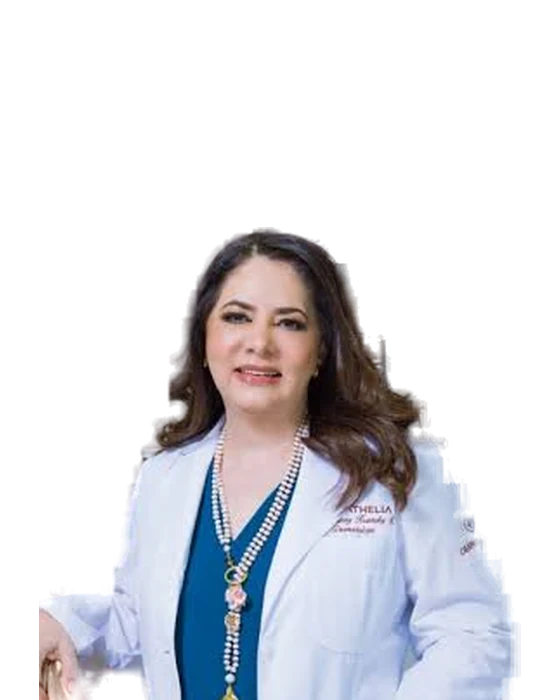
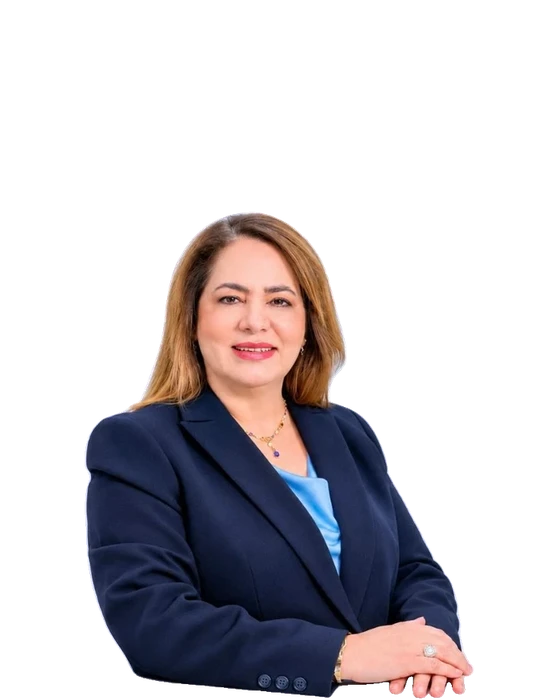
Directorio de colegios rediseñado y nueva fotografía de la Dra. Kramsky
- Directorio: banda con la red en cifras (colegios, asociaciones y presidencias en
  funciones), muro de logotipos en tarjetas grandes con siglas y presidencia, contador
  de resultados, búsqueda también por presidente y llamado a afiliar un colegio.
- La API pública del directorio incluye la presidencia vigente de cada organización.
- Dra. Fanny Kramsky Soto: retrato, recorte al rostro y foto sin fondo (rembg,
  u2net_human_seg) a partir de la fotografía nueva; original en docs.

diff --git a/app/pages/directorio/index.vue b/app/pages/directorio/index.vue
@@ -1,13 +1,46 @@
+<!-- Directorio público de colegios y asociaciones afiliados: cifras de la red, muro de
+     logotipos con su presidencia y búsqueda. Los logotipos estáticos están en shared/colegios.ts. -->
 <template>
   <div>
     <SitioEncabezado antetitulo="Directorio" titulo="Colegios agremiados" descripcion="Colegios y asociaciones de la salud de Chiapas que forman parte de la Federación. Consulte su mesa directiva, sitio web y redes sociales.">
       <SitioNavDirectorio />
     </SitioEncabezado>
 
+    <!-- La red en cifras -->
+    <section v-if="organizaciones?.length" class="relative isolate overflow-hidden bg-gradient-to-br from-marca-800 via-marca-700 to-marca-600 text-white">
+      <MarcaRed class="girar-lento pointer-events-none absolute -right-32 -top-32 -z-10 size-[30rem] text-white/[0.08]" />
+      <UContainer class="grid gap-8 py-12 lg:grid-cols-[1.1fr_1fr] lg:items-center">
+        <div v-revelar>
+          <p class="font-display text-sm font-semibold uppercase tracking-[0.2em] text-acento-300">
+            Una red en todo Chiapas
+          </p>
+          <p class="mt-3 font-display text-3xl font-bold leading-tight sm:text-4xl">
+            <SitioContador :valor="String(organizaciones.length)" /> colegios y asociaciones de la salud, unidos en una sola Federación
+          </p>
+          <p class="mt-3 max-w-xl text-white/80">
+            Medicina, odontología, química, psicología y trabajo social: especialistas de todas las disciplinas que trabajan juntos por la salud de Chiapas.
+          </p>
+        </div>
+        <dl class="grid grid-cols-3 gap-3">
+          <div v-for="(c, i) in cifras" :key="c.etiqueta" v-revelar.escala="i * 90" class="rounded-2xl bg-white/10 p-4 text-center ring-1 ring-white/20 backdrop-blur-md sm:p-6">
+            <dd class="font-display text-3xl font-bold sm:text-5xl">
+              <SitioContador :valor="String(c.valor)" />
+            </dd>
+            <dt class="mt-1 text-xs leading-snug text-white/80 sm:text-sm">
+              {{ c.etiqueta }}
+            </dt>
+          </div>
+        </dl>
+      </UContainer>
+    </section>
+
     <UContainer class="py-12 sm:py-16">
       <div v-if="organizaciones?.length" class="mb-8 flex flex-wrap items-center gap-3">
-        <UInput v-model="busqueda" icon="i-lucide-search" placeholder="Buscar por nombre o municipio" class="w-full sm:max-w-sm" />
+        <UInput v-model="busqueda" icon="i-lucide-search" placeholder="Buscar colegio, siglas o presidente" class="w-full sm:max-w-md" />
         <UTabs v-model="tipo" :items="pestanas" :content="false" size="sm" />
+        <p class="text-sm text-muted sm:ml-auto" aria-live="polite">
+          {{ filtradas.length }} de {{ organizaciones.length }}
+        </p>
       </div>
 
       <EstadoVacio
@@ -17,32 +50,51 @@
         :descripcion="organizaciones?.length ? undefined : 'La Federación está registrando a sus organizaciones afiliadas.'"
       />
 
-      <div v-else class="grid gap-4 sm:grid-cols-2 lg:grid-cols-3">
-        <NuxtLink
-          v-for="o in filtradas"
-          :key="o.slug"
-          v-revelar
-          :to="`/directorio/${o.slug}`"
-          class="group flex flex-col rounded-2xl bg-default p-6 shadow-tarjeta ring-1 ring-default transition-[box-shadow,transform] hover:-translate-y-0.5 hover:shadow-flotante"
-        >
-          <div class="flex items-center gap-4">
-            <LogoOrganizacion :logo-id="o.logoId" :src="logoColegio(o.slug)" :nombre="o.siglas || o.nombre" tamano="lg" />
-            <div class="min-w-0">
-              <p class="text-xs font-medium uppercase tracking-wide text-dimmed">
-                {{ NOMBRE_TIPO[o.tipo] }}
+      <ul v-else class="grid grid-cols-2 gap-3 sm:gap-5 md:grid-cols-3 xl:grid-cols-4">
+        <li v-for="(o, i) in filtradas" :key="o.slug" v-revelar="(i % 4) * 60">
+          <NuxtLink
+            :to="`/directorio/${o.slug}`"
+            class="group flex h-full flex-col overflow-hidden rounded-2xl bg-default shadow-tarjeta ring-1 ring-default transition-[box-shadow,transform] duration-300 hover:-translate-y-1 hover:shadow-flotante hover:ring-marca-200 dark:hover:ring-marca-800"
+          >
+            <!-- Logotipo protagonista -->
+            <div class="relative flex aspect-[4/3] items-center justify-center bg-white p-4 sm:p-6">
+              <span class="absolute inset-x-0 bottom-0 h-1 origin-left scale-x-0 bg-gradient-to-r from-marca-600 to-acento-500 transition-transform duration-500 group-hover:scale-x-100" aria-hidden="true" />
+              <img
+                v-if="logoDe(o)"
+                :src="logoDe(o)"
+                :alt="`Logotipo del ${o.nombre}`"
+                class="max-h-full max-w-full object-contain transition-transform duration-500 group-hover:scale-105"
+                loading="lazy"
+              >
+              <span v-else class="flex size-20 items-center justify-center rounded-full bg-gradient-to-br from-marca-50 to-acento-50 ring-1 ring-marca-100 sm:size-24" aria-hidden="true">
+                <UIcon name="i-lucide-stethoscope" class="size-9 text-marca-600 sm:size-10" />
+              </span>
+            </div>
+            <div class="flex flex-1 flex-col border-t border-default p-3 sm:p-5">
+              <p class="flex flex-wrap items-center gap-1.5 text-[11px] font-semibold uppercase tracking-wide text-dimmed">
+                <span>{{ NOMBRE_TIPO[o.tipo] }}</span>
+                <span v-if="o.siglas" class="rounded-full bg-marca-50 px-2 py-0.5 text-marca-700 dark:bg-marca-950 dark:text-marca-200">{{ o.siglas }}</span>
               </p>
-              <p v-if="o.municipio" class="text-sm text-muted">
-                {{ o.municipio }}
+              <p class="mt-1.5 line-clamp-3 font-display text-sm font-semibold leading-snug text-highlighted group-hover:text-primary sm:text-base">
+                {{ o.nombre }}
+              </p>
+              <p v-if="o.presidencia" class="mt-auto flex items-start gap-1.5 pt-3 text-xs text-muted sm:text-sm">
+                <UIcon name="i-lucide-user-round" class="mt-0.5 size-3.5 shrink-0 text-acento-600" />
+                <span><span class="sr-only">Presidencia: </span>{{ o.presidencia }}</span>
               </p>
             </div>
-          </div>
-          <p class="mt-4 font-display text-lg font-semibold leading-snug text-highlighted group-hover:text-primary">
-            {{ o.nombre }}
-          </p>
-          <p v-if="o.descripcion" class="mt-2 line-clamp-3 text-sm text-muted">
-            {{ o.descripcion }}
-          </p>
-        </NuxtLink>
+          </NuxtLink>
+        </li>
+      </ul>
+
+      <div v-if="organizaciones?.length" class="mt-14 flex flex-col items-center gap-3 rounded-2xl bg-muted p-8 text-center">
+        <p class="font-display text-xl font-semibold text-highlighted">
+          ¿Su colegio aún no forma parte de la Federación?
+        </p>
+        <p class="max-w-lg text-muted">
+          Conozca los requisitos para incorporarlo y sumarse a esta red.
+        </p>
+        <UButton to="/admision#colegio" label="Afiliar mi colegio" trailing-icon="i-lucide-arrow-right" />
       </div>
     </UContainer>
   </div>
@@ -55,8 +107,22 @@ import { normalizarNombre } from '#shared/texto'
 
 useSeoMeta({ title: 'Directorio de colegios y asociaciones', description: 'Colegios y asociaciones médicas de Chiapas afiliados a la Federación.' })
 
-interface OrgPublica { slug: string, tipo: 'COLEGIO' | 'ASOCIACION', nombre: string, siglas: string | null, municipio: string | null, logoId: string | null, descripcion: string | null }
+interface OrgPublica {
+  slug: string, tipo: 'COLEGIO' | 'ASOCIACION', nombre: string, siglas: string | null, municipio: string | null
+  logoId: string | null, descripcion: string | null, presidencia: string | null
+}
 const { data: organizaciones } = await useFetch<OrgPublica[]>('/api/publico/organizaciones', { default: () => [] })
+
+const logoDe = (o: OrgPublica) => (o.logoId ? `/api/archivos/${o.logoId}` : logoColegio(o.slug))
+
+const cifras = computed(() => {
+  const l = organizaciones.value ?? []
+  return [
+    { valor: l.filter(o => o.tipo === 'COLEGIO').length, etiqueta: 'Colegios' },
+    { valor: l.filter(o => o.tipo === 'ASOCIACION').length, etiqueta: l.filter(o => o.tipo === 'ASOCIACION').length === 1 ? 'Asociación' : 'Asociaciones' },
+    { valor: l.filter(o => o.presidencia).length, etiqueta: 'Presidencias en funciones' },
+  ]
+})
 
 const busqueda = ref(String(useRoute().query.q ?? ''))
 const tipo = ref('TODAS')
@@ -65,6 +131,6 @@ const filtradas = computed(() => {
   const q = normalizarNombre(busqueda.value)
   return (organizaciones.value ?? []).filter(o =>
     (tipo.value === 'TODAS' || o.tipo === tipo.value)
-    && (!q || normalizarNombre(`${o.nombre} ${o.siglas ?? ''} ${o.municipio ?? ''}`).includes(q)))
+    && (!q || normalizarNombre(`${o.nombre} ${o.siglas ?? ''} ${o.municipio ?? ''} ${o.presidencia ?? ''}`).includes(q)))
 })
 </script>

diff --git a/server/services/organizaciones.ts b/server/services/organizaciones.ts
@@ -337,9 +337,25 @@ export async function directorioPublico() {
   const filas = await prisma.organizacion.findMany({
     where: PUBLICA,
     orderBy: { nombre: 'asc' },
-    select: { slug: true, tipo: true, nombre: true, siglas: true, municipio: true, logoId: true, descripcion: true },
+    select: { id: true, slug: true, tipo: true, nombre: true, siglas: true, municipio: true, logoId: true, descripcion: true },
   })
-  return filas.map(o => ({ ...o, descripcion: o.descripcion?.slice(0, 240) ?? null }))
+  // Presidencia vigente y publicada de cada una (cargo «Presidencia» de su mesa directiva).
+  const hoy = aFecha(new Date().toISOString().slice(0, 10))
+  const presidencias = await prisma.nombramiento.findMany({
+    where: {
+      publicado: true, estado: 'VIGENTE', inicio: { lte: hoy }, OR: [{ fin: null }, { fin: { gte: hoy } }],
+      cargo: { nombre: 'Presidencia', activo: true, organo: { tipo: 'MESA_DIRECTIVA', activo: true, organizacionId: { in: filas.map(o => o.id) } } },
+    },
+    orderBy: { inicio: 'desc' },
+    select: { nombrePersona: true, usuario: { select: { nombre: true, apellidoPaterno: true, apellidoMaterno: true } }, cargo: { select: { organo: { select: { organizacionId: true } } } } },
+  })
+  const presidenciaDe = new Map<string, string>()
+  for (const n of presidencias) {
+    const org = n.cargo.organo.organizacionId
+    const nombre = n.nombrePersona ?? (n.usuario ? [n.usuario.nombre, n.usuario.apellidoPaterno, n.usuario.apellidoMaterno].filter(Boolean).join(' ') : null)
+    if (org && nombre && !presidenciaDe.has(org)) presidenciaDe.set(org, nombre)
+  }
+  return filas.map(({ id, ...o }) => ({ ...o, descripcion: o.descripcion?.slice(0, 240) ?? null, presidencia: presidenciaDe.get(id) ?? null }))
 }
 
 /** Ficha pública: datos de contacto institucionales y profesionales que autorizaron publicarse. */
